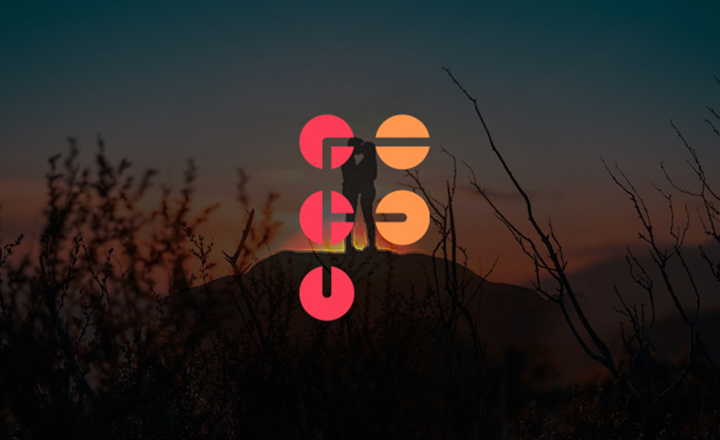
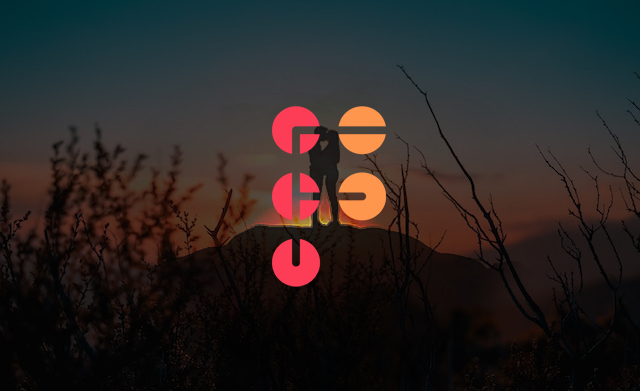
content updated

diff --git a/src/components/blog/Blogs.jsx b/src/components/blog/Blogs.jsx
@@ -56,7 +56,7 @@ const Blogs = () => {
           heading={"Is solo startup success possible?"}
           image={"/assets/images/09_Blog_01.png"}
           text={
-            "A social app that exclusively for bachelors, who are searching for a life partner or relationship."
+            "Achieving solo startup success demands the right idea, dedication, skills, and a commitment to continuous learning in entrepreneurship today."
           }
           date={"01 Aug 2023"}
         />
@@ -64,7 +64,7 @@ const Blogs = () => {
           heading={"Generative AI - The Future"}
           image={"/assets/images/10_Blog_02.jpg"}
           text={
-            "A social app that exclusively for bachelors, who are searching for a life partner or relationship."
+            "Unleashing innovation and creativity through advanced neural networks, reshaping industries and redefining possibilities."
           }
           date={"03 Aug 2023"}
         />
@@ -72,7 +72,7 @@ const Blogs = () => {
           heading={"Datafication and its importance"}
           image={"/assets/images/11_Blog_03.jpg"}
           text={
-            "A social app that exclusively for bachelors, who are searching for a life partner or relationship."
+            "Datafication transforms unstructured, incomprehensible information into useful insights. It allows you to gain insights into your processes and procedures."
           }
           date={"05 Aug 2023"}
         />

diff --git a/src/components/products/ProductCard.jsx b/src/components/products/ProductCard.jsx
@@ -10,15 +10,21 @@ const ProductCard = ({ image, heading, text }) => {
           alt="cover-image"
           width={100}
           height={100}
+          unoptimized={true}
           className="w-full h-[200px] object-cover rounded-md"
         />
       </Link>
       <div>
-        <Link href={"/products"} className="text-xl font-semibold uppercase">{heading}</Link>
+        <Link href={"/products"} className="text-xl font-semibold uppercase">
+          {heading}
+        </Link>
         <p className="text-sm">{text}</p>
       </div>
       <div>
-        <Link href={"/products"} className="text-app-blue text-sm font-semibold">
+        <Link
+          href={"/products"}
+          className="text-app-blue text-sm font-semibold"
+        >
           Read the case study
         </Link>
       </div>

diff --git a/src/components/announcements/Announcements.jsx b/src/components/announcements/Announcements.jsx
@@ -6,13 +6,13 @@ const Announcements = () => {
       <SectionHeading text={"Whats new"} />
       <div className="flex flex-nowrap justify-between gap-3 overflow-auto scrollbar-hide pt-6 pb-4">
         <Announcement
-          image={"/assets/images/02_Whatsnew_Firstlook.png"}
+          image={"/assets/images/02_Whatsnew_Firstlook.jpg"}
           text={
             'We are introducing "Firstlook" - an app designed to connect singles around the world.'
           }
         />
         <Announcement
-          image={"/assets/images/03_Whatsnew_Notepad copy.jpg"}
+          image={"/assets/images/03_Whatsnew_Notepad.jpg"}
           text={
             "We are announcing a personal assistant app for 2024 to help you effortless routine organization."
           }

diff --git a/src/components/blog/ArticleCard.jsx b/src/components/blog/ArticleCard.jsx
@@ -9,11 +9,14 @@ const ArticleCard = ({ image, heading, text, date }) => {
           alt="cover-image"
           width={100}
           height={100}
+          unoptimized={true}
           className="w-full h-[200px] object-cover rounded-md"
         />
       </Link>
       <div className="">
-        <Link href={"/blogs"} className="text-xl font-semibold">{heading}</Link>
+        <Link href={"/blogs"} className="text-xl font-semibold">
+          {heading}
+        </Link>
         <p className="text-sm">{text}</p>
         <p className="text-xs mt-2">{date}</p>
       </div>

diff --git a/src/components/Banner.jsx b/src/components/Banner.jsx
@@ -15,10 +15,11 @@ const Banner = () => {
         </div>
         <div>
           <Image
-            src={"/assets/images/01_main_banner.png"}
+            src={"/assets/images/01_main_banner.jpg"}
             alt="Banner_image"
             width={600}
             height={330}
+            priority
             className="rounded-lg"
           />
         </div>

diff --git a/src/components/career/OpeningsCard.jsx b/src/components/career/OpeningsCard.jsx
@@ -12,7 +12,8 @@ const OpeningsCard = ({ image, position, description, number }) => {
         alt="Smile-image"
         height={60}
         width={100}
-        className="rounded-md object-cover"
+        objectFit="cover"
+        className="rounded-md"
       />
       <div className="">
         <h3 className="font-bold sm:text-lg text-md text-app-blue">

diff --git a/src/styles/globals.css b/src/styles/globals.css
@@ -14,6 +14,11 @@ html {
   display: none;
 }
 
+.scrollbar-hide {
+  -ms-overflow-style: none; /* IE and Edge */
+  scrollbar-width: none; /* Firefox */
+}
+
 .section {
   @apply sm:pt-12 pt-8 pb-4 sm:px-8;
 }
